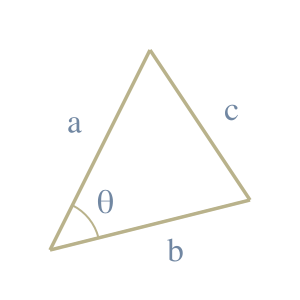
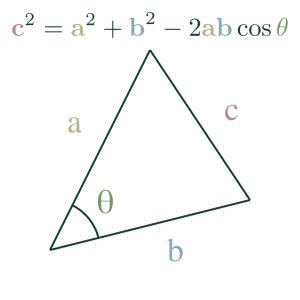
Update law of cosines graphic.

diff --git a/code/manim/law_of_cosines.py b/code/manim/law_of_cosines.py
@@ -3,6 +3,8 @@ from pathlib import Path
 from manim import *
 from numpy import array
 
+from theme import Theme
+
 config.background_color = WHITE
 config.save_as_gif = True
 config.pixel_height = 300
@@ -16,39 +18,52 @@ config.frame_height = 6
 LINE_COLOR = "#b9b28b"
 TEXT_COLOR = "#7187A2"
 
-line_args = {'stroke_width': 7}
+line_args = {}
 
 class LawOfCosinesTriange(Scene):
     def construct(self):
         line_1 = Line(start=array([-2, -2, 0]), end=array([0, 2, 0]), **line_args)
-        line_1.set_color(LINE_COLOR)
+        line_1.set_color(Theme.TEXT_COLOR)
 
         line_2 = Line(start=array([-2, -2, 0]), end=array([2, -1, 0]), **line_args)
-        line_2.set_color(LINE_COLOR)
+        line_2.set_color(Theme.TEXT_COLOR)
 
         line_3 = Line(start=line_2.end, end=line_1.end, **line_args)
-        line_3.set_color(LINE_COLOR)
+        line_3.set_color(Theme.TEXT_COLOR)
 
-        angle = Angle(line_1, line_2, color=LINE_COLOR, other_angle=True, radius=1)
+        angle = Angle(line_1, line_2, color=Theme.TEXT_COLOR, other_angle=True, radius=1)
         self.add(line_1, line_2, line_3, angle)
 
+        equation = MathTex(r"\textbf{c}^2 = \textbf{a}^2 + \textbf{b}^2 - 2\textbf{ab}\cos\theta", font_size=50)
+        equation.set_color(Theme.TEXT_COLOR)
+        equation.move_to(UP * 2.5)
+
+        equation[0][0].set_color(Theme.COLOR_1)
+        equation[0][3].set_color(Theme.COLOR_2)
+        equation[0][6].set_color(Theme.COLOR_3)
+        equation[0][10].set_color(Theme.COLOR_2)
+        equation[0][11].set_color(Theme.COLOR_3)
+        equation[0][-1].set_color(Theme.COLOR_4)
+
+        self.add(equation)
+
         line_text = Text("a")
-        line_text.set_color(TEXT_COLOR)
+        line_text.set_color(Theme.COLOR_2)
         line_text.move_to(line_1.get_center() + UP/2 + LEFT/2)
         self.add(line_text)
 
         line_text = Text("b")
-        line_text.set_color(TEXT_COLOR)
         line_text.move_to(line_2.get_center() + DOWN/2 + RIGHT/2)
+        line_text.set_color(Theme.COLOR_3)
         self.add(line_text)
 
         line_text = Text("c")
-        line_text.set_color(TEXT_COLOR)
+        line_text.set_color(Theme.COLOR_1)
         line_text.next_to(line_3.get_center() + RIGHT/4 + UP/4)
         self.add(line_text)
 
         line_text = Text("θ")
-        line_text.set_color(TEXT_COLOR)
+        line_text.set_color(Theme.COLOR_4)
         line_text.move_to(angle.get_center() + 0.4 * RIGHT + 0.4 * UP)
         self.add(line_text)
 

diff --git a/code/manim/theme.py b/code/manim/theme.py
@@ -3,4 +3,5 @@ class Theme():
     COLOR_1 = '#b98b99'
     COLOR_2 = '#b9b28b'
     COLOR_3 = '#8ba7b9'
-    TEXT_COLOR = '#333333'
+    COLOR_4 = '#7A976B'
+    TEXT_COLOR = '#1B3D2F'
